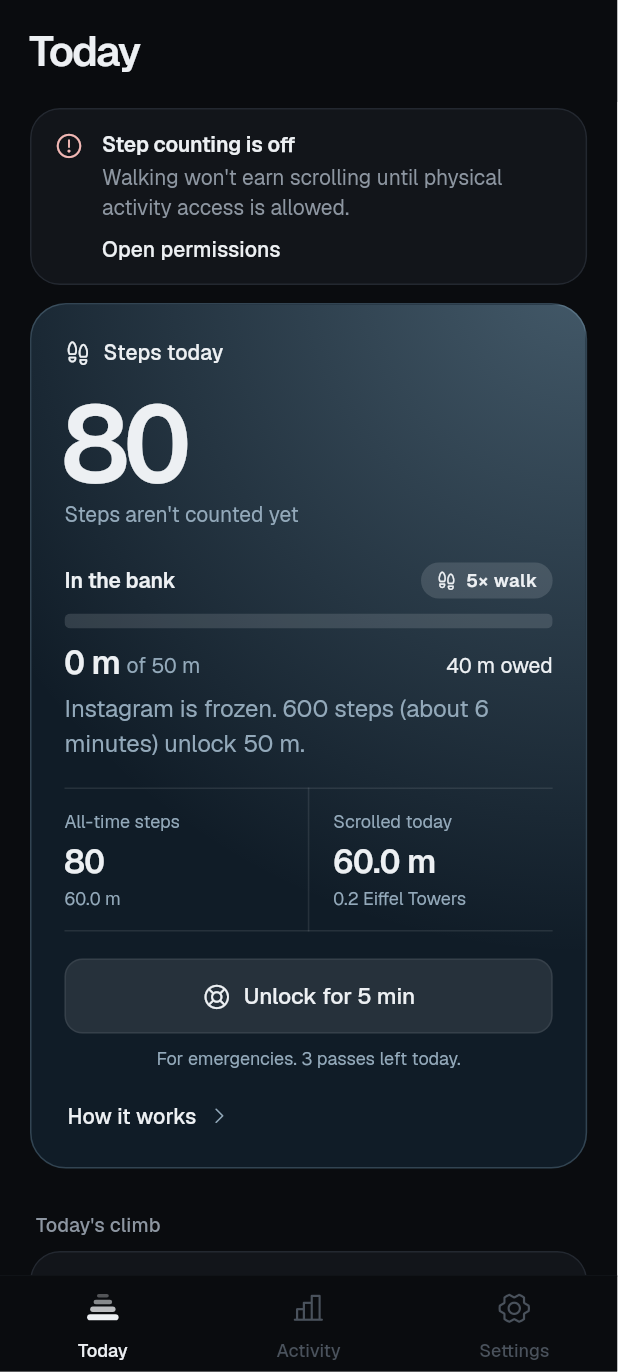
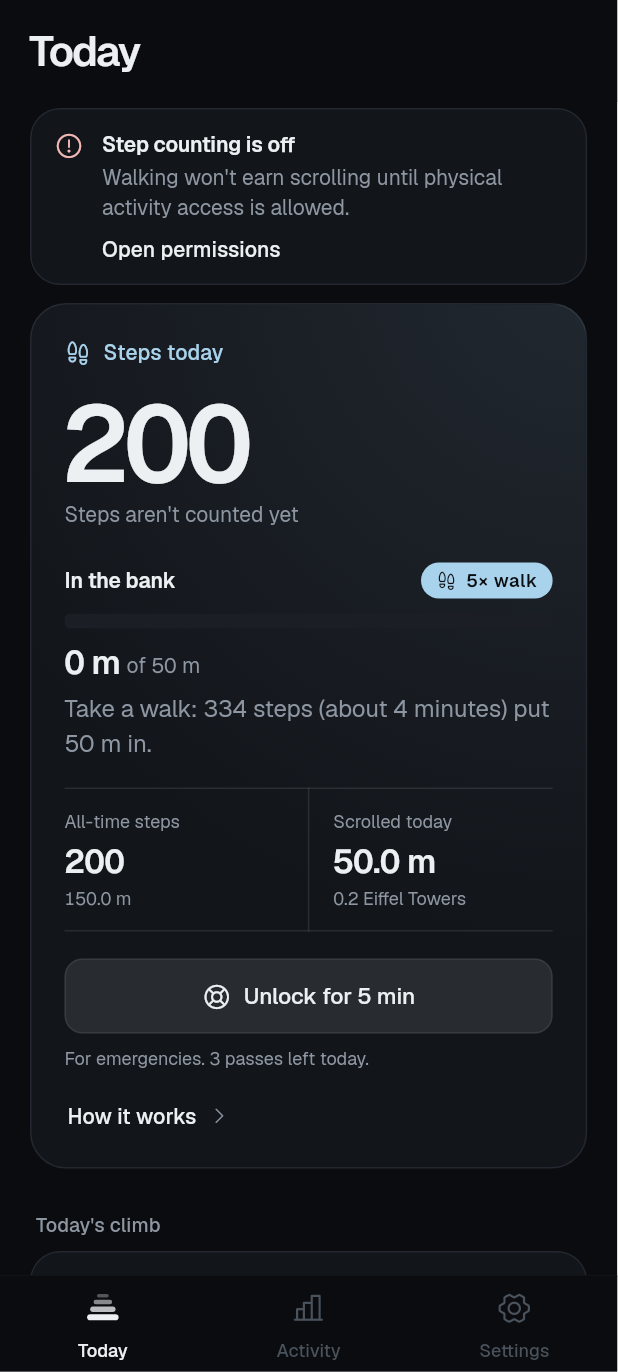
Today: pass hint left-aligned under the button
Claude-Session: https://claude.ai/code/session_01GqksnMMaqzuhLtbB8jWPgR

diff --git a/test/render_screens_test.dart b/test/render_screens_test.dart
@@ -212,8 +212,8 @@ void main() {
     await tester.runAsync(() async {
       await c.setDeveloperOptions(true);
       await c.devResetTracking();
-      c.devAddSteps(80);
-      c.devAddScroll('com.instagram.android', 60);
+      c.devAddSteps(200); // 150 m walked at 3x fills the 50 m bank
+      c.devAddScroll('com.instagram.android', 50);
       await c.setDeveloperOptions(false);
     });
     await tab('Today');

diff --git a/lib/ui/home_screen.dart b/lib/ui/home_screen.dart
@@ -543,7 +543,7 @@ class _PassButton extends StatelessWidget {
         left > 0
             ? 'For emergencies. $left ${left == 1 ? 'pass' : 'passes'} left today.'
             : 'No passes left today.',
-        textAlign: TextAlign.center,
+        textAlign: TextAlign.start,
         style: t.bodySmall?.merge(numeric).copyWith(color: muted),
       ),
     ]);
